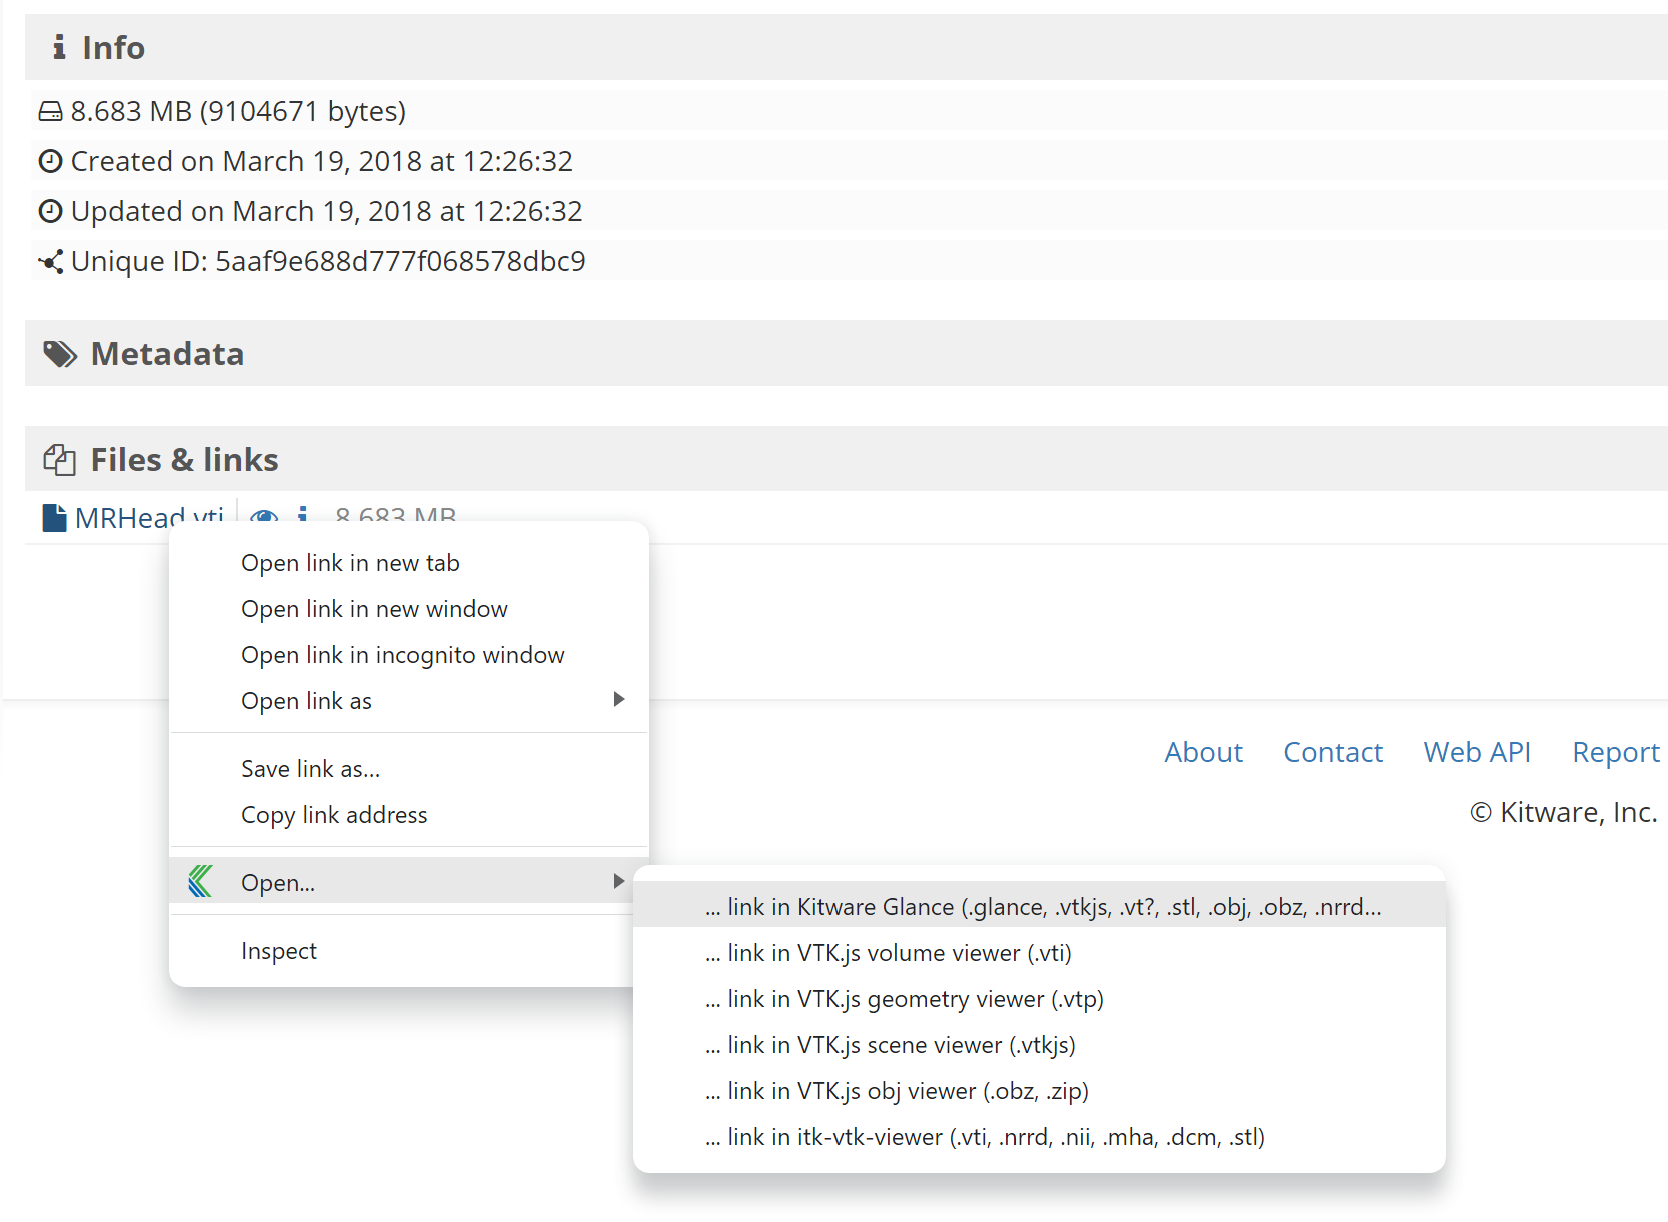
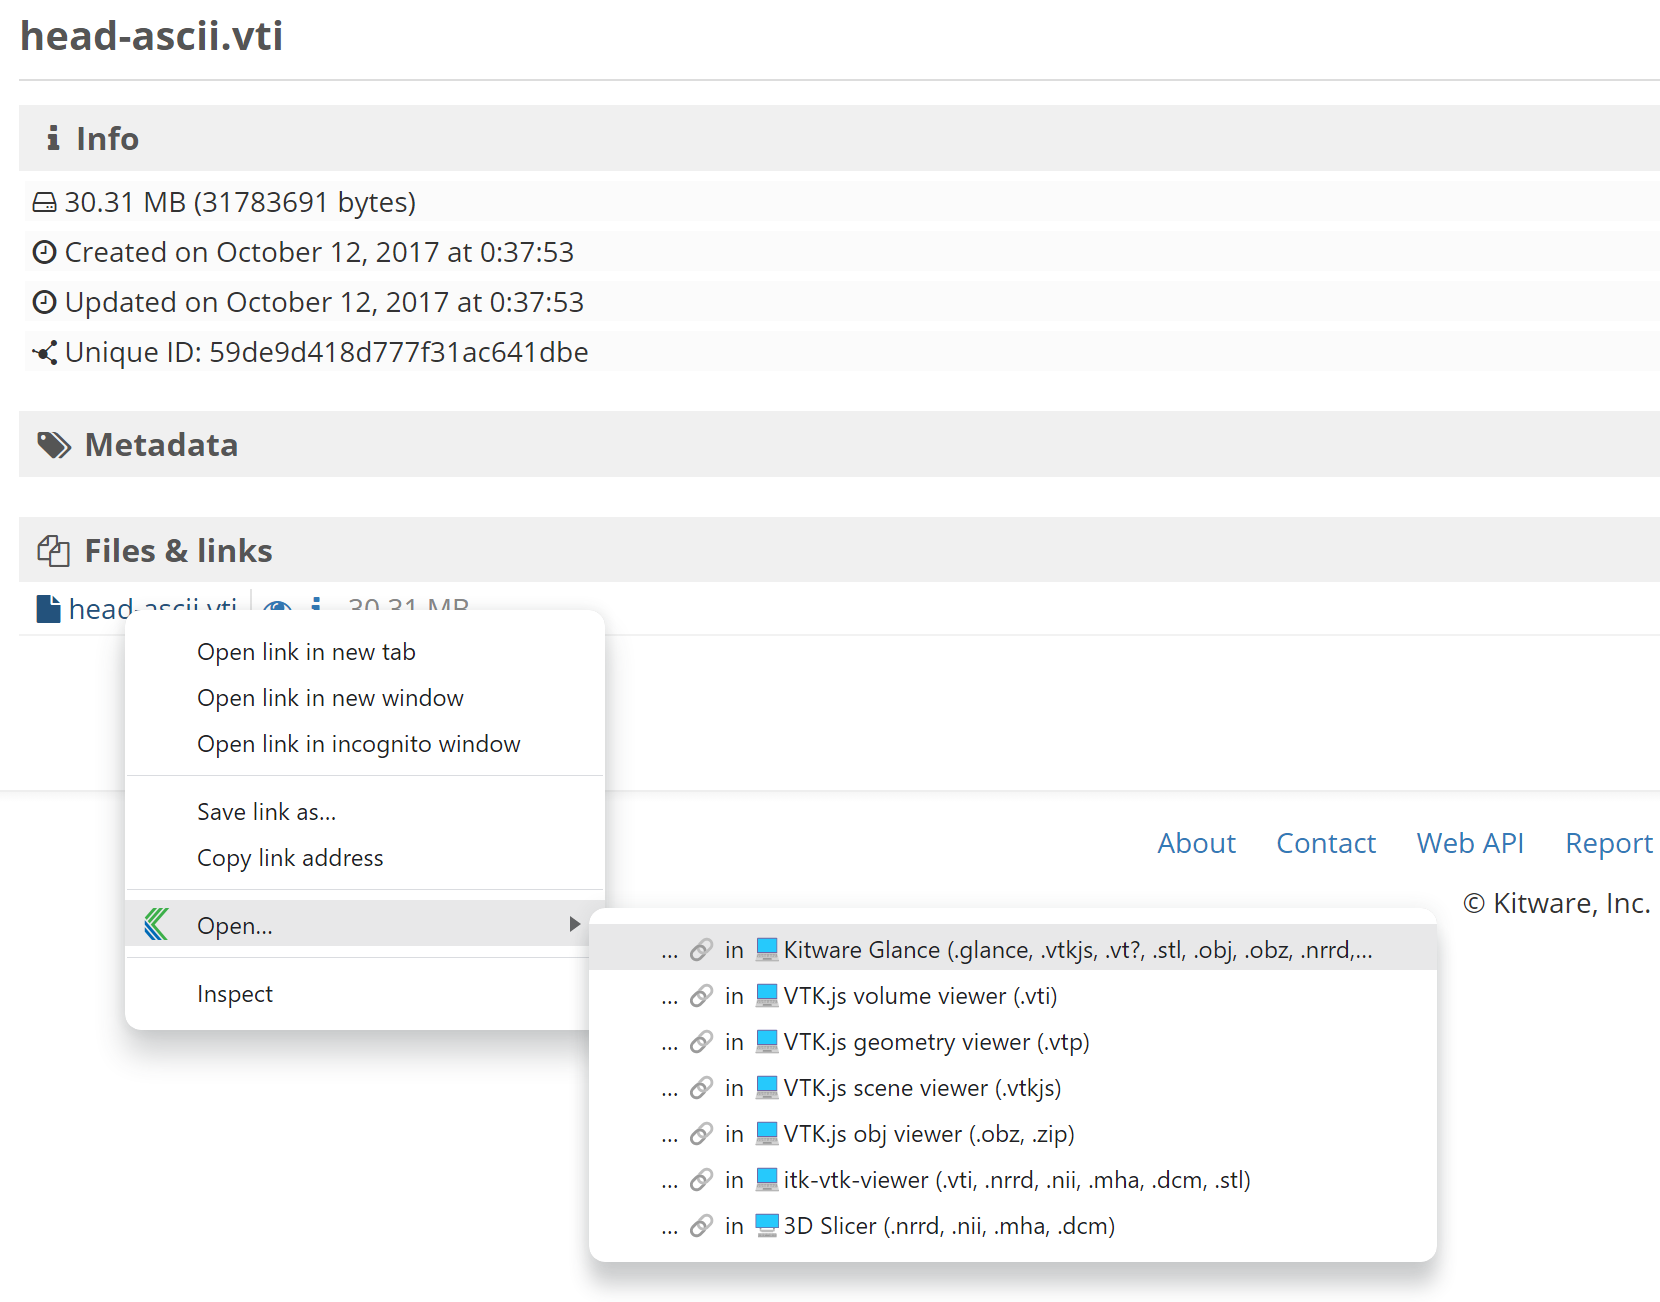
feat(Slicer): Add 3D Slicer desktop support

diff --git a/scripts/background.js b/scripts/background.js
@@ -124,28 +124,39 @@ function isSTLMesh(fileHeader) {
 
 chrome.runtime.onInstalled.addListener(async () => {
   const menuIdSeparator = ':';
+  const viewerTypes = {
+    online: "💻",
+    desktop: "🖥",
+  }
   const viewers = {
-    'Kitware Glance (.glance, .vtkjs, .vt?, .stl, .obj, .obz, .nrrd, .nii, .mha, .dcm)': "https://kitware.github.io/glance/app/?name={fileName}.{fileType}&url={encode:{url}}",
-    'VTK.js volume viewer (.vti)': "https://kitware.github.io/vtk-js/examples/VolumeViewer/VolumeViewer.html?fileURL={encode:{url}}",
-    'VTK.js geometry viewer (.vtp)': "https://kitware.github.io/vtk-js/examples/GeometryViewer/GeometryViewer.html?fileURL={encode:{url}}",
-    'VTK.js scene viewer (.vtkjs)': "https://kitware.github.io/vtk-js/examples/SceneExplorer/SceneExplorer.html?fileURL={encode:{url}}",
-    'VTK.js obj viewer (.obz, .zip)': "https://kitware.github.io/vtk-js/examples/OBJViewer/OBJViewer.html?fileURL={encode:{url}}",
-    'itk-vtk-viewer (.vti, .nrrd, .nii, .mha, .dcm, .stl)': 'https://kitware.github.io/itk-vtk-viewer/app/?fileToLoad={encode:{url}{noFileName:/{fileName}.{fileType}}}',
+    online: {
+      'Kitware Glance (.glance, .vtkjs, .vt?, .stl, .obj, .obz, .nrrd, .nii, .mha, .dcm)': "https://kitware.github.io/glance/app/?name={fileName}.{fileType}&url={encode:{url}}",
+      'VTK.js volume viewer (.vti)': "https://kitware.github.io/vtk-js/examples/VolumeViewer/VolumeViewer.html?fileURL={encode:{url}}",
+      'VTK.js geometry viewer (.vtp)': "https://kitware.github.io/vtk-js/examples/GeometryViewer/GeometryViewer.html?fileURL={encode:{url}}",
+      'VTK.js scene viewer (.vtkjs)': "https://kitware.github.io/vtk-js/examples/SceneExplorer/SceneExplorer.html?fileURL={encode:{url}}",
+      'VTK.js obj viewer (.obz, .zip)': "https://kitware.github.io/vtk-js/examples/OBJViewer/OBJViewer.html?fileURL={encode:{url}}",
+      'itk-vtk-viewer (.vti, .nrrd, .nii, .mha, .dcm, .stl)': 'https://kitware.github.io/itk-vtk-viewer/app/?fileToLoad={encode:{url}{noFileName:/{fileName}.{fileType}}}',
+    },
+    desktop: {
+      '3D Slicer (.nrrd, .nii, .mha, .dcm)': 'slicer://viewer/?download={encode:{url}{noFileName:/{fileName}.{fileType}}}'
+    }
   };
-  Object.keys(viewers).forEach((name) => {
-    chrome.contextMenus.create({
-      id: `link${menuIdSeparator}${name}`,
-      title: `... link in ${name}`,
-      type: 'normal',
-      contexts: ['link'],
+  Object.keys(viewers).forEach((viewerType) => {
+    Object.keys(viewers[viewerType]).forEach((name) => {
+      chrome.contextMenus.create({
+        id: `${viewerType}${menuIdSeparator}link${menuIdSeparator}${name}`,
+        title: `… 🔗 in ${viewerTypes[viewerType]}${name}`,
+        type: 'normal',
+        contexts: ['link'],
+      });
     });
-  });
-  Object.keys(viewers).forEach((name) => {
-    chrome.contextMenus.create({
-      id: `selection${menuIdSeparator}${name}`,
-      title: `... %s in ${name}`,
-      type: 'normal',
-      contexts: ['selection'],
+    Object.keys(viewers.online).forEach((name) => {
+      chrome.contextMenus.create({
+        id: `${viewerType}${menuIdSeparator}selection${menuIdSeparator}${name}`,
+        title: `… %s in ${viewerTypes[viewerType]}${name}`,
+        type: 'normal',
+        contexts: ['selection'],
+      });
     });
   });
 
@@ -219,16 +230,15 @@ chrome.runtime.onInstalled.addListener(async () => {
   }
 
   async function openViewer(info, tab) {
-    const menuItemId = info.menuItemId.split(menuIdSeparator);
-    const viewerName = menuItemId[1];
-    const viewer = viewers[viewerName];
+    const [viewerType, sourceType, viewerName] = info.menuItemId.split(menuIdSeparator);
+    const viewer = viewers[viewerType][viewerName];
     if (!viewer) {
-      console.log('NOT ', viewerName);
+      console.log('NOT', viewerName);
       // Not a supported menu item
       return;
     }
     let url;
-    if (menuItemId[0] === 'selection') {
+    if (sourceType === 'selection') {
       url = info.selectionText;
     }
     else { 

diff --git a/README.md b/README.md
@@ -1,6 +1,6 @@
 # OpenInBrowserExtension
 
-Cross-browser extension that lets you conveniently open URLs with Kitware online viewers such as Glance, VTK.js or itk-vtk-viewer.
+Cross-browser extension that lets you conveniently open URLs with Kitware online viewers such as Glance, VTK.js or itk-vtk-viewer. It can also open 🖥 desktop viewers such as 3D Slicer.
 
 ![Screenshot](images/Screenshot.png)
 *Example of usage with [Girder](https://girder.readthedocs.io/en/latest/) (e.g. https://data.kitware.com)*
@@ -19,10 +19,13 @@ It should work (not tested) with:
 
 ## Viewer support
 
-The following viewers are supported:
+The following 💻 online viewers are supported:
  - [Kitware Glance](https://kitware.github.io/glance/)
  - [VTK.js viewer examples](https://kitware.github.io/vtk-js/examples/)
  - [itk-vtk-viewer](https://kitware.github.io/itk-vtk-viewer/docs/)
+
+The following 🖥 desktop viewers are supported:
+ - [3D Slicer](https://www.slicer.org/)
 
 ## File support
 
@@ -83,3 +86,8 @@ http-server -p 8000 --cors
 ```
 
 Then you can open on your browser localhost:8000 to see your files.
+
+### 3D Slicer
+
+Shall you want to open your URLs with 3D Slicer, you need to save the [LoadRemoteFile module](https://gist.github.com/lassoan/534298ee567000a37b3cb89de01750b8#file-loadremotefile-py-L19-L20) into the qt-scripted-modules folder of 3D Slicer.
+It will work automatically on Windows. There is [more setup required](https://gist.github.com/lassoan/534298ee567000a37b3cb89de01750b8#file-loadremotefile-py-L13) on other OS.
